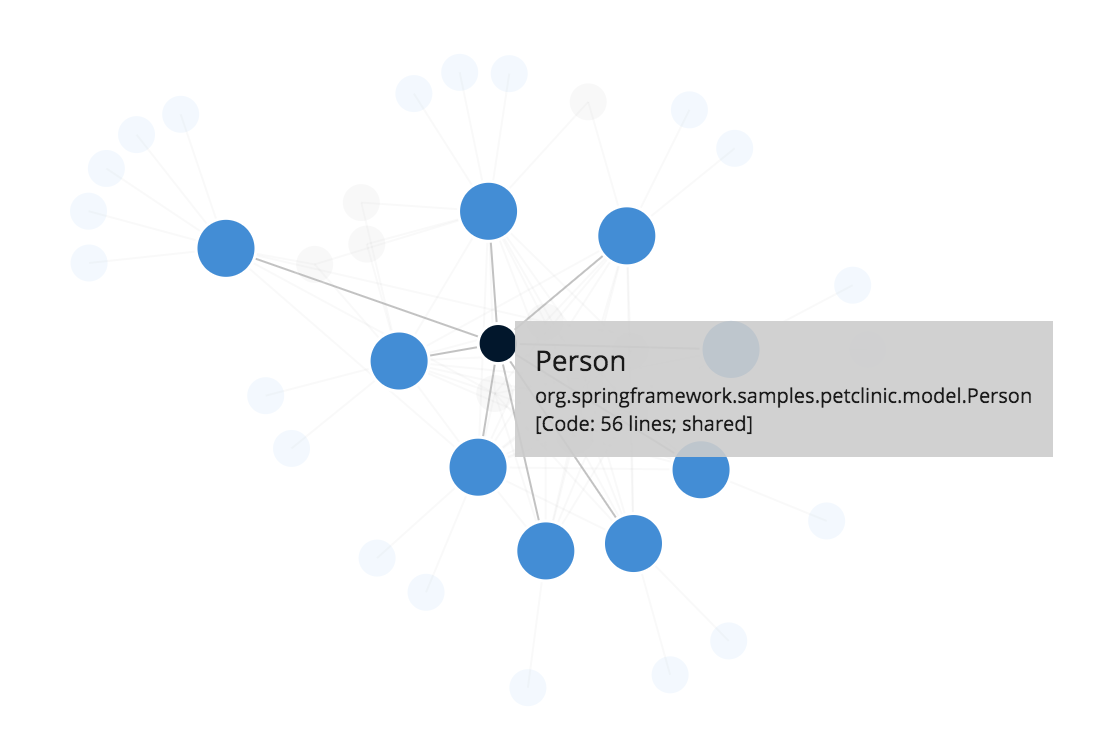
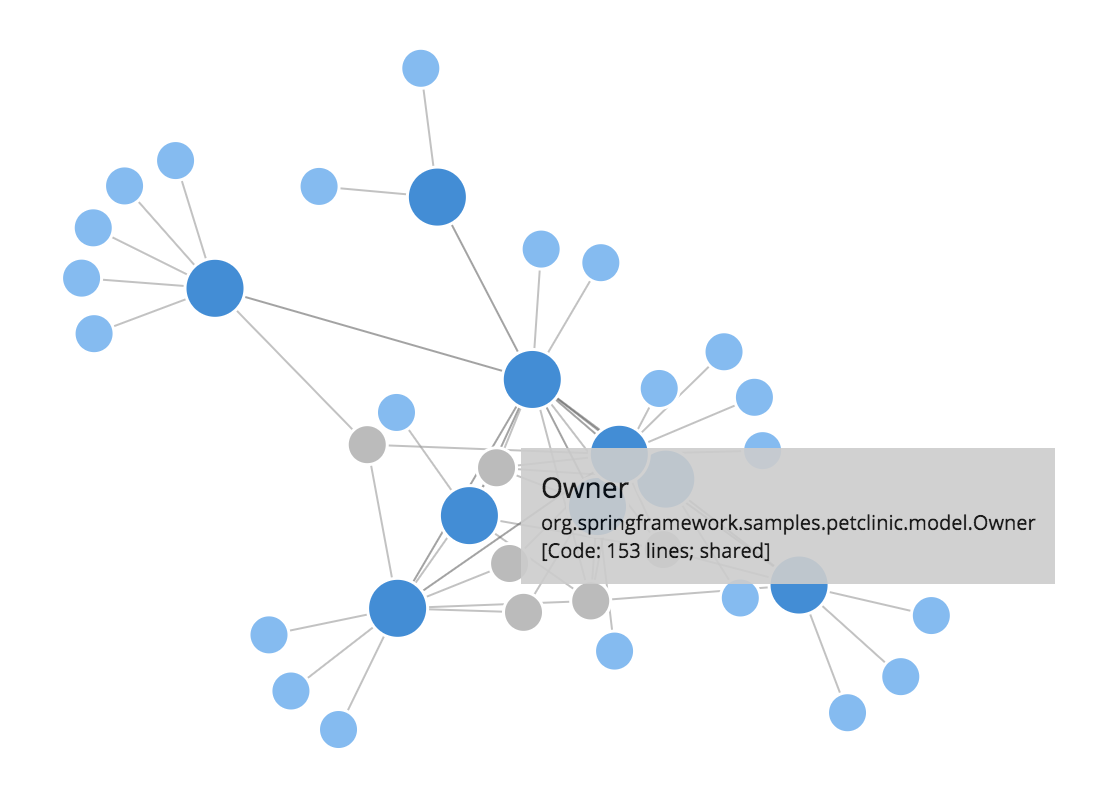
Doc updates.

diff --git a/structurizr-examples/src/com/structurizr/example/spring/petclinic/SpringPetClinic.java b/structurizr-examples/src/com/structurizr/example/spring/petclinic/SpringPetClinic.java
@@ -60,7 +60,7 @@ public class SpringPetClinic {
                 webApplication,
                 "org.springframework.samples.petclinic",
                 new SpringComponentFinderStrategy(
-                        new ReferencedTypesSupportingTypesStrategy()
+                        new ReferencedTypesSupportingTypesStrategy(false)
                 ),
                 new SourceCodeComponentFinderStrategy(new File(sourceRoot, "/src/main/java/"), 150));
         componentFinder.findComponents();

diff --git a/docs/supporting-types.md b/docs/supporting-types.md
@@ -42,7 +42,7 @@ This strategy finds all of the supporting types that are referenced by the types
 
 ## 3. All referenced types
 
-Finally, let's use the [ReferencedTypesSupportingTypesStrategy](https://github.com/structurizr/java/blob/master/structurizr-core/src/com/structurizr/componentfinder/ReferencedTypesSupportingTypesStrategy.java) to find all of the referenced types, irrespective of which package they reside in, provided that package sits somewhere underneath ```org.springframework.samples.petclinic```.
+Next, let's use the [ReferencedTypesSupportingTypesStrategy](https://github.com/structurizr/java/blob/master/structurizr-core/src/com/structurizr/componentfinder/ReferencedTypesSupportingTypesStrategy.java) to find all of the referenced types, irrespective of which package they reside in, provided that package sits somewhere underneath ```org.springframework.samples.petclinic```.
 
 ```java
 ComponentFinder componentFinder = new ComponentFinder(
@@ -61,9 +61,15 @@ As the following image illustrates, we now have many more classes that are suppo
 
 This collection of classes may look confusing at first, but the ```JdbcVisitRepositoryImpl``` class references the ```Visit``` class, which in turn references the ```Pet``` class, which in turn references the ```Owner``` class, etc. The Structurizr tree exploration shows that these classes are shared between the ```VisitRepository``` and other components by rendering their names in grey.
 
+## 4. Directly referenced types only
+
+Of course, the ```JdbcVisitRepositoryImpl``` class may not actually use all of these classes, but they are certainly available to it. This is one of the drawbacks of using static analysis based upon compiled bytecode. You can modify this behaviour and find only those types directly referenced by the component by passing ```false``` to the constructor of the [ReferencedTypesSupportingTypesStrategy](https://github.com/structurizr/java/blob/master/structurizr-core/src/com/structurizr/componentfinder/ReferencedTypesSupportingTypesStrategy.java).
+
+![](images/supporting-types-4.png)
+
 ## Excluding types
 
-The Structurizr ```ComponentFinder``` will also allow you to exclude types from the component scanning process using one or more regular expressions. If we wanted to exclude the ```BaseEntity``` and ```NamedEntity``` classes in the previous example, we could add the following line of code before calling ```componentFinder.findComponents()```.
+The Structurizr ```ComponentFinder``` will also allow you to exclude types from the component scanning process using one or more regular expressions. If we wanted to exclude the ```BaseEntity``` and ```NamedEntity``` classes in one of the previous examples, we could add the following line of code before calling ```componentFinder.findComponents()```.
 
 ```
 componentFinder.exclude("org\\.springframework\\.samples\\.petclinic\\.model\\..*Entity");
@@ -71,17 +77,24 @@ componentFinder.exclude("org\\.springframework\\.samples\\.petclinic\\.model\\..
 
 The result is as follows.
 
-
-![](images/supporting-types-4.png)
+![](images/supporting-types-5.png)
 
 ## Visualising shared code
 
-[Structurizr's component size exploration](https://structurizr.com/share/1/explore/size-circles) allows you to easily see where types are shared between components.
+The easiest way to analyse the component-code relationships is to visualise them. Structurizr has a number of built-in explorations that can help with this.
 
-![](images/supporting-types-5.gif)
+### Component size
 
-The [component and code dependency exploration](https://structurizr.com/share/1/explore/component-and-code-dependencies) also provides a way to easily see shared code.
+[Structurizr's component size exploration](https://structurizr.com/share/1/explore/size-circles) renders components and code elements as a collection of nested circles, where the size of each circle is based upon the number of lines of code. Shared code elements are rendered using a different style, and hovering the mouse over a shared code element will highlight all other occurrences. This allows you to easily see where code elements (interfaces and classes) are shared between components.
 
-![](images/supporting-types-6.png)
+![](images/supporting-types-6.gif)
+
+### Component and code dependencies
+
+The [component and code dependency exploration](https://structurizr.com/share/1/explore/component-and-code-dependencies) renders a force-directed graph of the components and code elements, along with all of the relationships between them. Shared code elements are rendered in grey.
 
 ![](images/supporting-types-7.png)
+
+Clicking any node will allow you to easily see which other nodes are directly connected to it.
+
+![](images/supporting-types-8.png)

diff --git a/docs/spring-petclinic.md b/docs/spring-petclinic.md
@@ -1,6 +1,6 @@
 # The Spring PetClinic example
 
-This is a step-by-step guide to recreating the [Spring PetClinic example diagrams](https://structurizr.com/public/1), which are based upon the original version of the application. It assumes that you have working Java, Maven and git installations plus a development environment to write code. The full source code for this example can be found in the [SpringPetClinic.java file](https://github.com/structurizr/java/blob/master/structurizr-examples/src/com/structurizr/example/spring/petclinic/SpringPetClinic.java). 
+This is a step-by-step guide to recreating the [Spring PetClinic example diagrams](https://structurizr.com/share/1), which are based upon the original version of the application. It assumes that you have working Java, Maven and git installations plus a development environment to write code. The full source code for this example can be found in the [SpringPetClinic.java file](https://github.com/structurizr/java/blob/master/structurizr-examples/src/com/structurizr/example/spring/petclinic/SpringPetClinic.java). 
 
 ## 1. Clone and build the Spring PetClinic code
 
@@ -81,14 +81,14 @@ Spring MVC uses Java annotations (```@Controller```, ```@Service``` and ```@Repo
 ComponentFinder componentFinder = new ComponentFinder(
     webApplication, "org.springframework.samples.petclinic",
     new SpringComponentFinderStrategy(
-            new ReferencedTypesSupportingTypesStrategy()
+            new ReferencedTypesSupportingTypesStrategy(false)
     ),
     new SourceCodeComponentFinderStrategy(new File(sourceRoot, "/src/main/java/"), 150));
 
 componentFinder.findComponents();
 ```
 
-The ```SpringComponentFinderStrategy``` is a pre-built component finder strategy that understands how applications are built with Spring and how to identify Spring components, such as MVC controllers, REST controllers, services, repositories, JPA repositories, etc. The way that you identify supporting types (i.e. the Java classes and interfaces) that implement a component is also pluggable, and here we're looking for all types referenced by the component type(s).
+The ```SpringComponentFinderStrategy``` is a pre-built component finder strategy that understands how applications are built with Spring and how to identify Spring components, such as MVC controllers, REST controllers, services, repositories, JPA repositories, etc. The way that you identify supporting types (i.e. the Java classes and interfaces) that implement a component is also pluggable. Here, with the ```ReferencedTypesSupportingTypesStrategy```, we're looking for all types directly referenced by the component type(s). See [Components and supporting types](supporting-types.md) for more details about this.
 
 Once the components and their supporting types have been identified, the dependencies between components are also identified and extracted.
 
@@ -201,6 +201,21 @@ target/spring-petclinic-1.0.0-SNAPSHOT/WEB-INF/lib
 
 ## 10. View the diagrams and layout the elements
 
-If you sign in to Structurizr and open the workspace you just uploaded, you'll see something like this. Structurizr doesn't do any automatic layout of the elements on your diagrams, so you will need to drag the boxes around to create a layout that you like. You can save the position of the diagram elements though.
+If you sign in to Structurizr and open the workspace you just uploaded, you'll see something like this.
 
 ![The Spring PetClinic workspace](images/spring-petclinic-1.png)
+
+Structurizr doesn't do any automatic layout of the elements on your diagrams, so you will need to drag the boxes around to create a layout that you like. Here are the links to the live example diagrams:
+
+- [System Context diagram](https://structurizr.com/share/1#context)
+- [Container diagram](https://structurizr.com/share/1#containers)
+- [Component diagram](https://structurizr.com/share/1#components)
+
+## 11. Explore the model
+Once you have a model of your software system, you can explore it using a number of different visualisations. For example:
+
+- [Static structure, rendered as a tree](https://structurizr.com/share/1/explore/tree)
+- [Static structure, rendered as circles based upon size](https://structurizr.com/share/1/explore/size-circles)
+- [Component dependencies](https://structurizr.com/share/1/explore/component-dependencies)
+- [Component and code dependencies](https://structurizr.com/share/1/explore/component-and-code-dependencies)
+
